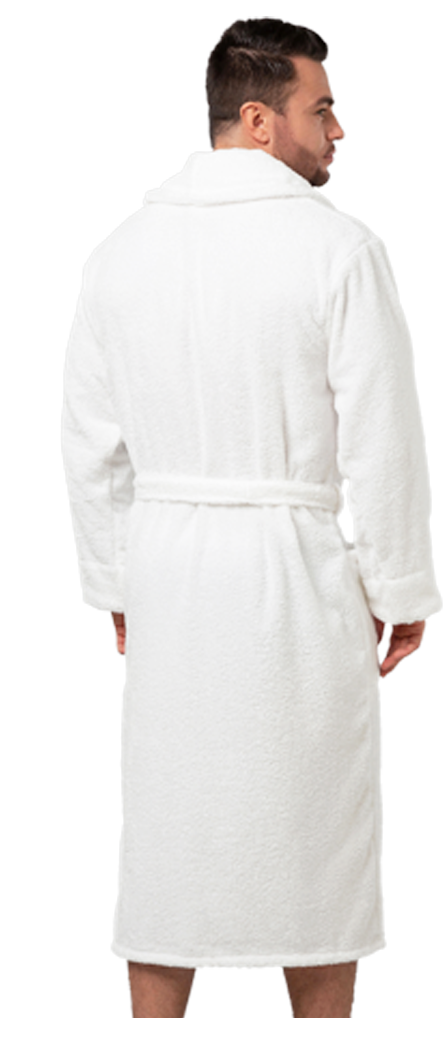
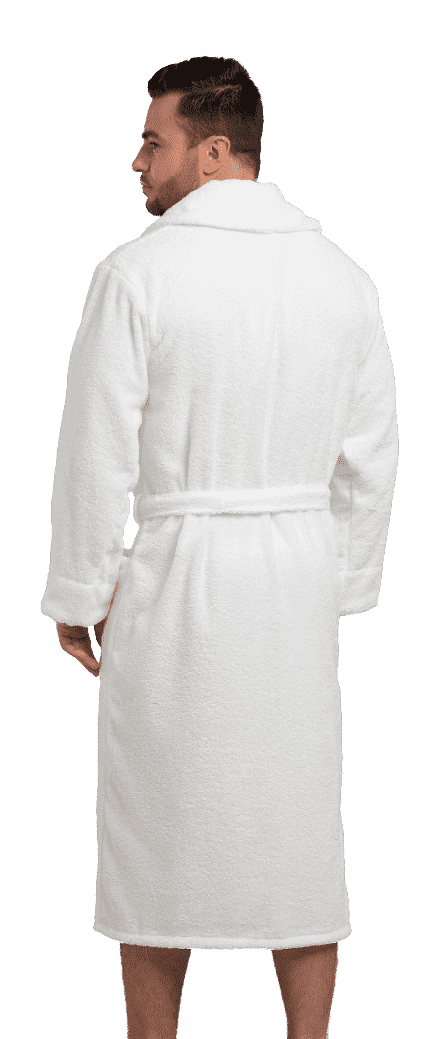
Пофиксил все фото халатов, поменял фото в блоке о нас

Changed region(s): [[0.0872, 0.0, 0.9888, 1.0], [0.7562, 0.2772, 0.7852, 0.308], [0.6107, 0.4004, 0.6398, 0.4312]]

diff --git a/css/index.css b/css/index.css
@@ -1195,7 +1195,7 @@ main {
   margin-left: 186px;
   z-index: 1;
   position: relative;
-  background: url(../img/aboutUsPhoto.png) no-repeat center center / cover;
+  background: url(../img/aboutUsPhoto.jpg) no-repeat center center / cover;
 }
 
 .aboutUsExperienceCircle {
